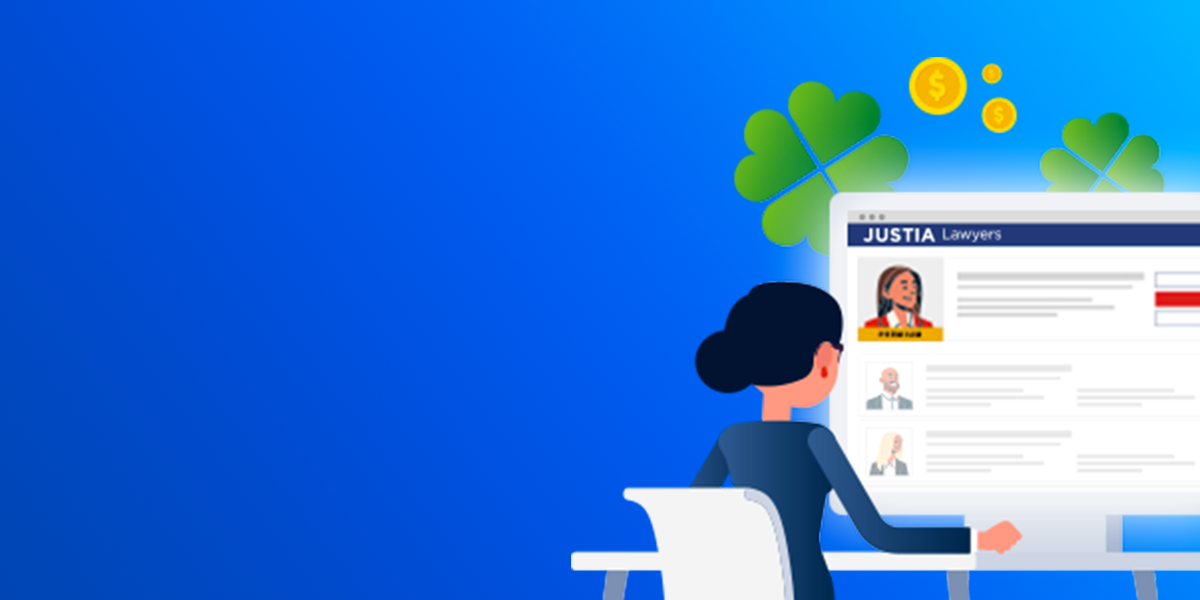
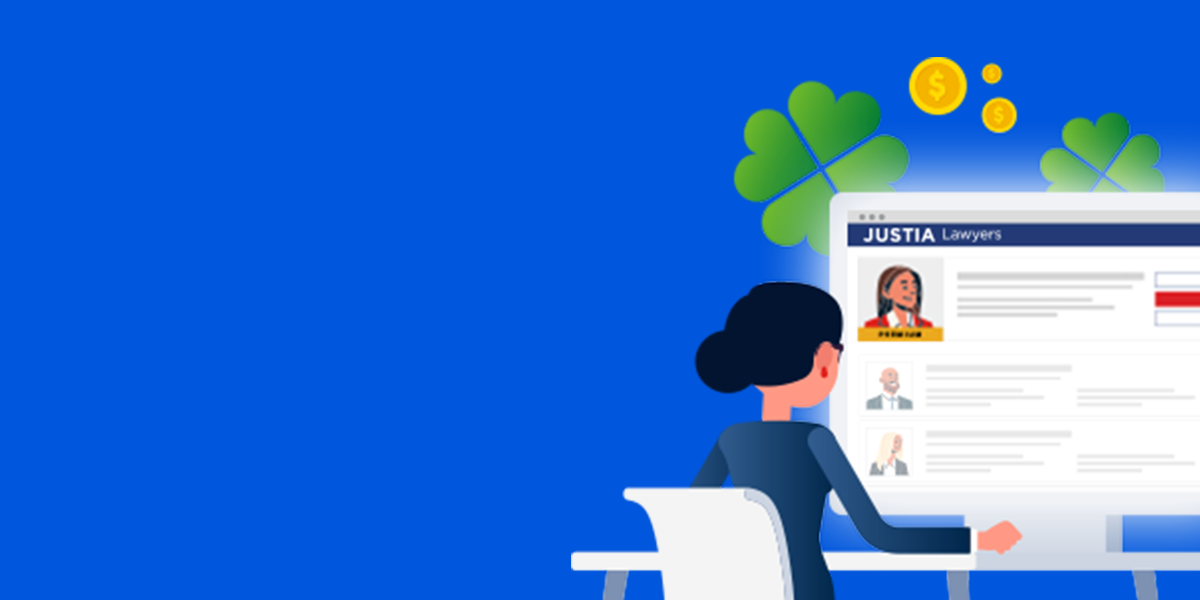
Conversion tweaks

diff --git a/dist/jld-newsletter.html b/dist/jld-newsletter.html
@@ -343,8 +343,8 @@
           </table>
           <table border="0" cellpadding="0" cellspacing="0" align="center" width="100%" style="max-width:600px;margin:0 auto;border-bottom:1px solid #f7f9fb" bgcolor="#fff">
             <tr>
-              <td class="justia12" background="https://justatic.com/v/1/emails/images/newsletters/2021/03/premium-placement-bg.png" style="background-position:right 35% bottom!important;background:#004aca url(https://justatic.com/v/1/emails/images/newsletters/2021/03/premium-placement-bg.png);background-repeat:no-repeat;background-size:600px 300px" bgcolor="#004aca" width="600" align="center" valign="top">
-                <!--[if gte mso 9]><v:rect xmlns:v="urn:schemas-microsoft-com:vml" fill="true" stroke="false" style="width:600px;border:0;outline:0;"><v:fill type="tile" src="https://justatic.com/v/1/emails/images/newsletters/2021/03/premium-placement-bg.png" color="#004aca" /><v:textbox style="mso-fit-shape-to-text:true" inset="0,0,0,0"><![endif]-->
+              <td class="justia12" background="https://justatic.com/v/1/emails/images/newsletters/2021/03/premium-placement-bg.png" style="background-position:right 35% bottom!important;background:#0056dc url(https://justatic.com/v/1/emails/images/newsletters/2021/03/premium-placement-bg.png);background-repeat:no-repeat;background-size:600px 300px" bgcolor="#0056dc" width="600" align="center" valign="top">
+                <!--[if gte mso 9]><v:rect xmlns:v="urn:schemas-microsoft-com:vml" fill="true" stroke="false" style="width:600px;border:0;outline:0;"><v:fill type="tile" src="https://justatic.com/v/1/emails/images/newsletters/2021/03/premium-placement-bg.png" color="#0056dc" /><v:textbox style="mso-fit-shape-to-text:true" inset="0,0,0,0"><![endif]-->
                 <div>
                   <table border="0" cellpadding="0" cellspacing="0" align="center" width="100%">
                     <tr>
